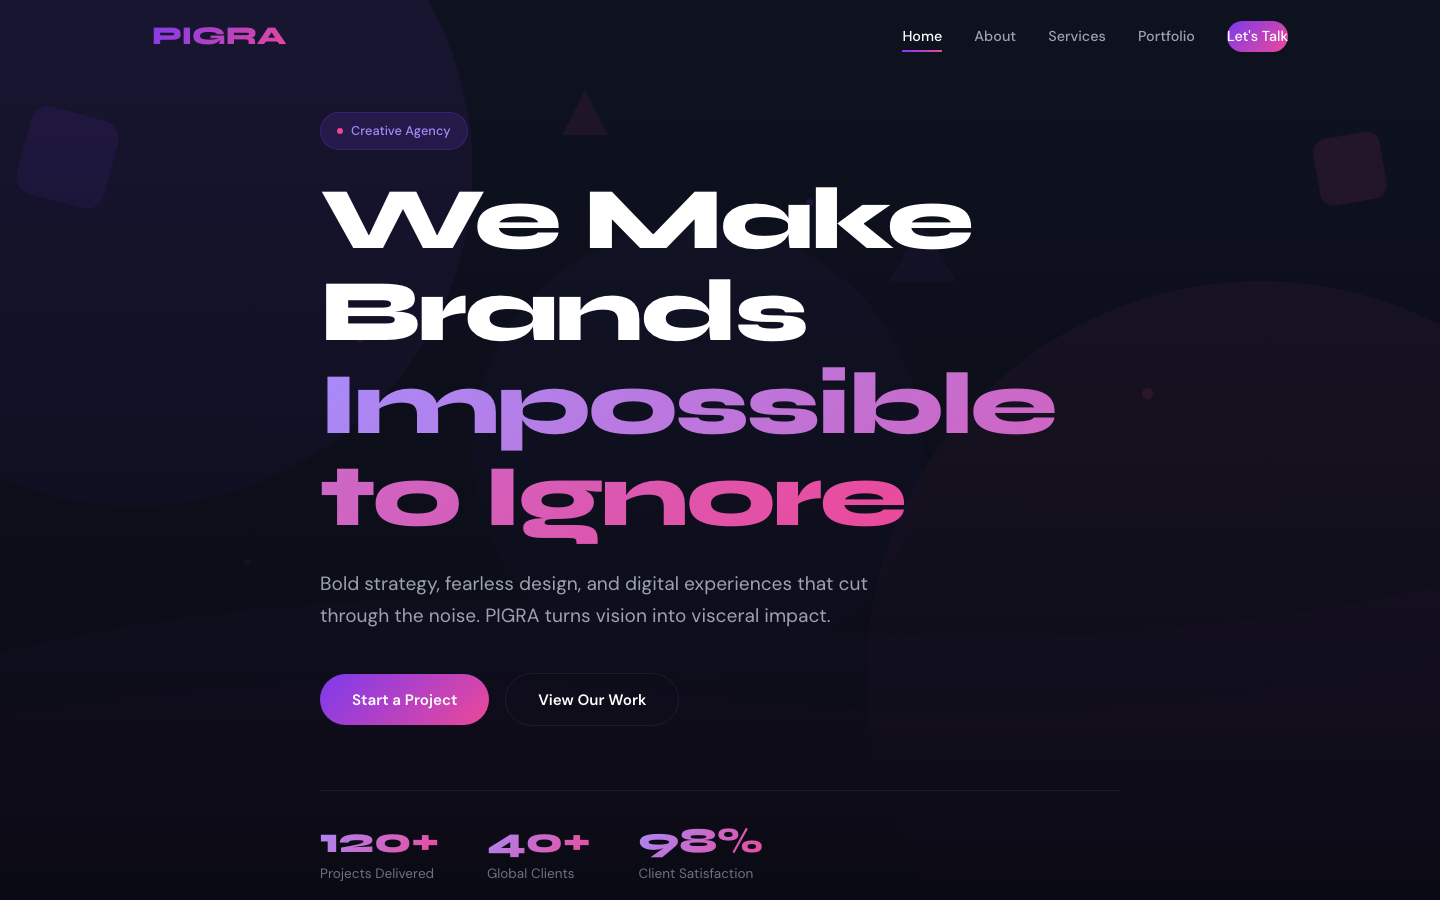
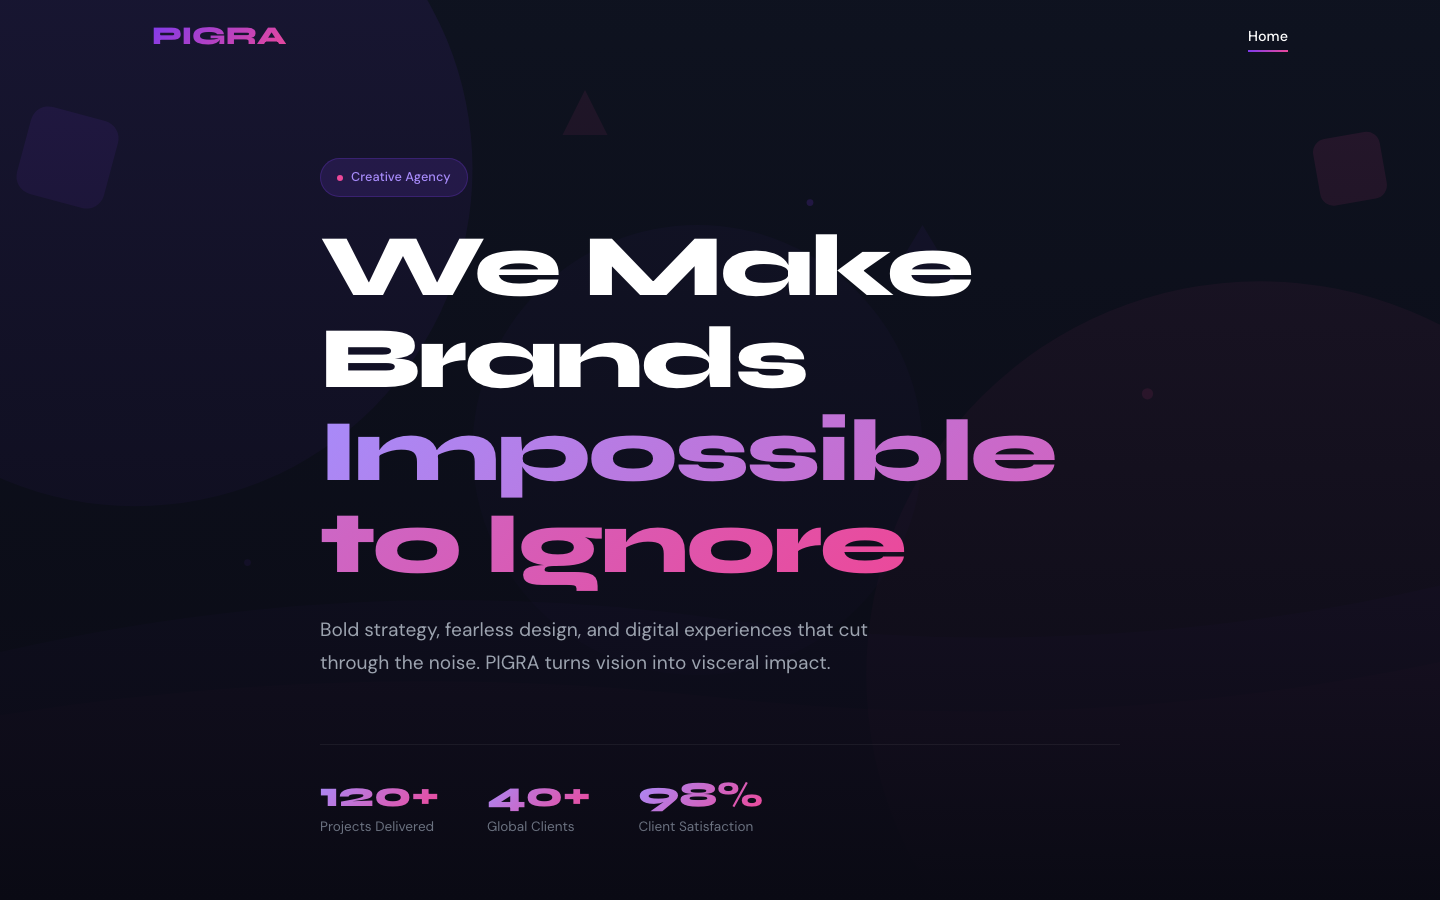
v1.0.4

diff --git a/README.md b/README.md
@@ -1,0 +1,46 @@
+# PIGRA — Creative Agency HTML Template
+
+A premium, framework-free HTML template for creative and digital agencies. PIGRA pairs a bold purple-to-pink gradient with a deep charcoal ground, striking oversized typography, and a portfolio-first layout built to make creative work stand out.
+
+## 📸 Screenshot
+
+![Homepage Preview](screenshot.png)
+
+## 🎨 Design System
+
+| Token | Value | Usage |
+|-------|-------|-------|
+| `--purple` | `#7C3AED` | Primary accent, CTAs, gradients |
+| `--pink` | `#EC4899` | Secondary accent, gradient partner |
+| `--dark` | `#111827` | Backgrounds, cards, footer |
+| `--bg` | `#0a0a14` | Page background |
+| `--gray` | `#6B7280` | Body text |
+| `--gradient` | purple → pink `135deg` | Headings, CTA, highlights |
+| Headings | Syne (600/700/800) | Bold display type |
+| Body | DM Sans (300–700) | Clean geometric sans |
+
+## 📄 Pages
+
+| Page | Description | Sections |
+|------|-------------|----------|
+| [index.html](index.html) | Home | Hero, services (6: brand strategy, visual identity, digital design, campaigns, motion & video, digital marketing), portfolio (6), testimonials, contact |
+
+## ⚙ Tech Stack
+
+- **HTML5** — semantic markup, accessibility-first
+- **CSS3** — custom properties, Grid, Flexbox, `clamp()`, gradient text
+- **Vanilla JS** — IntersectionObserver reveals, portfolio filtering, active-nav highlight, contact-form validation
+- **Fonts** — Google Fonts (Syne + DM Sans)
+- No frameworks, no build step, no dependencies
+
+## 📁 Images
+
+All imagery lives in `assets/img/` — 26 files including portfolio shots, blog imagery, team portraits, testimonials, and layered SVG backgrounds.
+
+---
+
+**Template by uiuxlabz** — framework-free, responsive, production-ready.
+
+### Let's Build Something Together 🚀
+
+[https://tally.so/r/q4q1L9](https://tally.so/r/q4q1L9)
